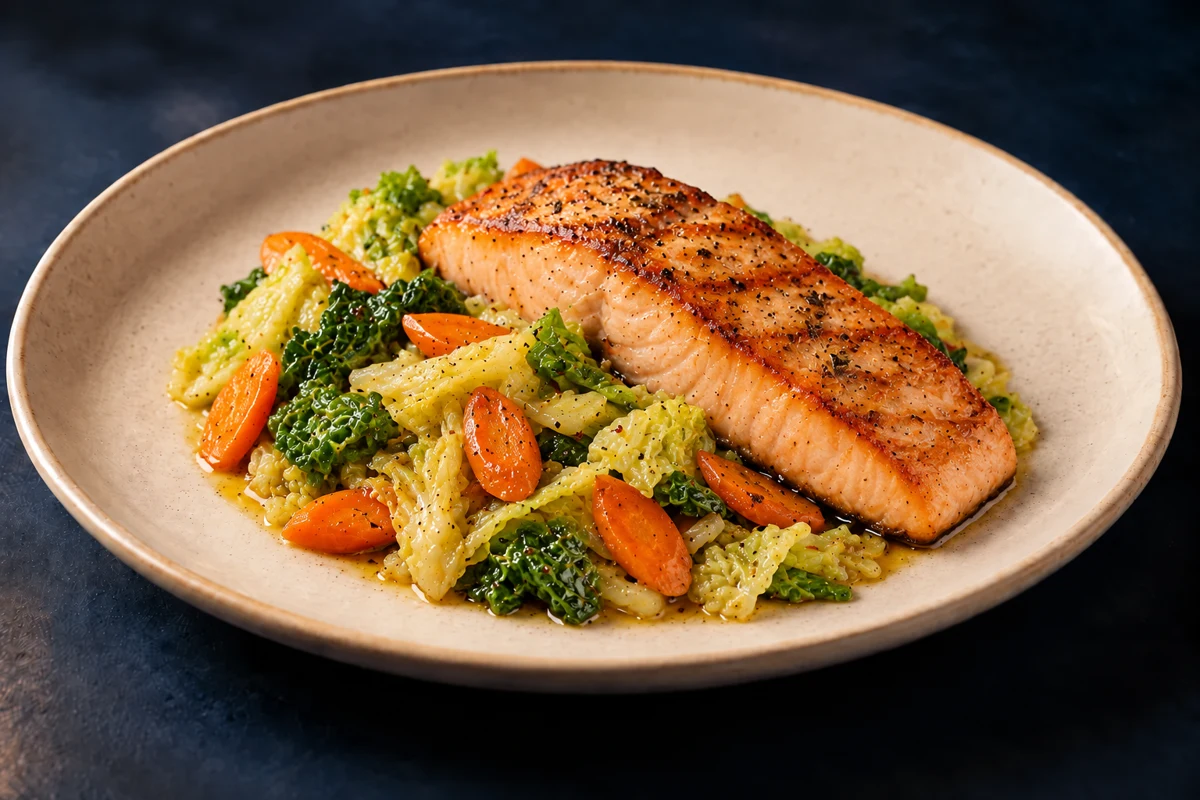
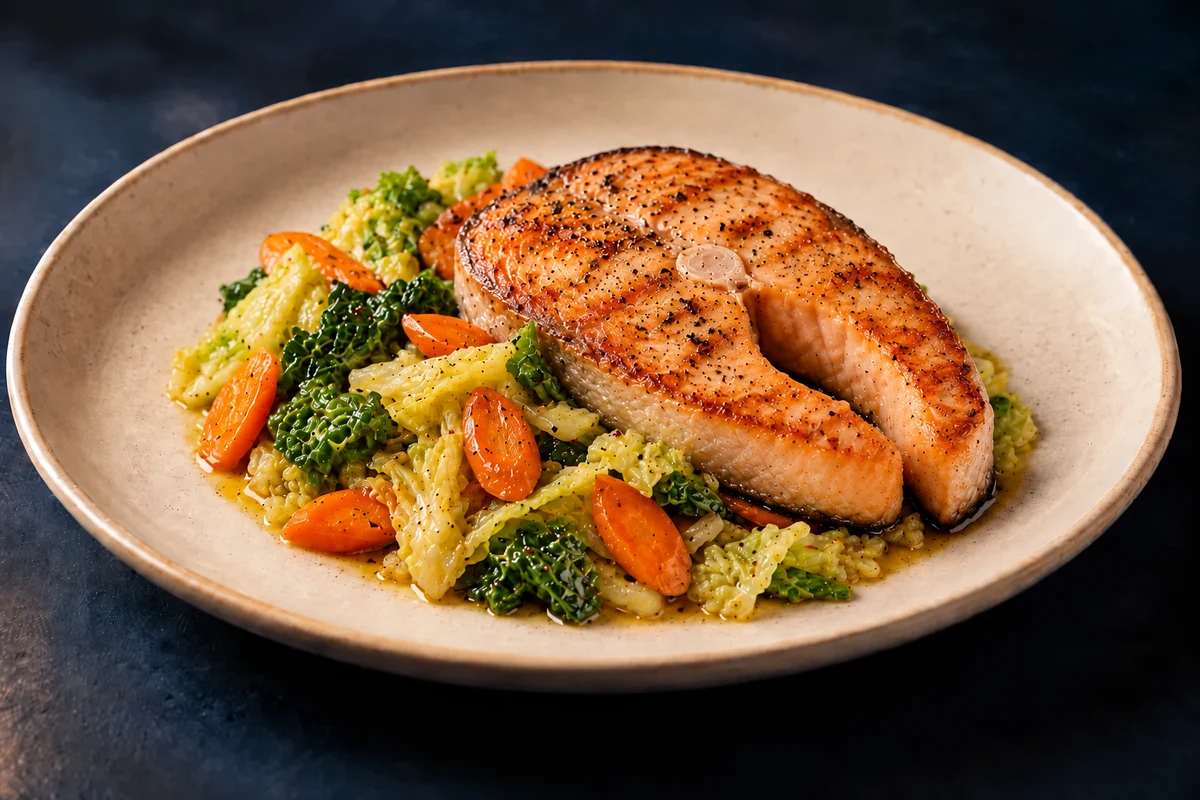
Correggi miniatura salmone pranzo a trancio

Changed region(s): [[0.1542, 0.1562, 0.8633, 0.7812], [0.2158, 0.3125, 0.2467, 0.3438], [0.185, 0.3438, 0.2158, 0.375]]

diff --git a/pranzo.html b/pranzo.html
@@ -1,1 +1,1 @@
-<!doctype html><html lang="it"><head><meta charset="utf-8"><meta name="viewport" content="width=device-width,initial-scale=1"><meta name="theme-color" content="#081c30"><title>Offerta per pranzo — venerdì 23 ottobre 2026 | Controcorrente</title><link rel="stylesheet" href="styles.css?v=20261023093419"><link rel="icon" href="icons/Anchor.svg"><link rel="manifest" href="manifest.webmanifest"><link rel="apple-touch-icon" href="notification-icon-192.png"></head><body><header class="top"><div class="brand-row"><a class="logo" href="index.html"><img class="brand-logo" src="logo-controcorrente.webp?v=202610031345" alt="Controcorrente" width="2172" height="724"></a><button class="nav-toggle" type="button" aria-expanded="false" aria-controls="site-nav"><img class="icon " src="icons/Menu.svg" alt="" aria-hidden="true"><span>Menù</span></button></div><nav id="site-nav"><a href="index.html">Novità</a><a href="il-locale.html">Il Locale</a><a href="pranzo.html" aria-current="page">Menù pranzo</a><a href="cena.html">Menù cena</a><a href="offerta.html">Offerta del giorno</a><a href="bibite-vini.html">Bibite &amp; vini</a><a href="club.html">Club</a><a href="tessera-punti-pranzo.html">Tessera Punti Pranzo</a><a href="allergeni.html">Allergeni</a><a href="contatti.html">Contatti</a><a href="divertentismo.html">Divertentismo <span aria-hidden="true" style="font-size:.75em;color:var(--gold);margin-left:.35em">☺</span></a><span class="languages"><a href="english.html" lang="en">EN</a><a href="cinese.html" lang="zh">中文</a></span></nav></header><main class="shell"><div class="page-head"><h1>Offerta per pranzo</h1><p class="service-label">Valido solo a pranzo,<br>nel giorno sotto indicato</p><p class="lunch-date" style="font-size:.875rem;color:var(--gold);font-weight:600;letter-spacing:.035em"><time datetime="2026-10-23">Venerdì 23 ottobre 2026</time></p></div><section class="lunch-board"><div class="dish-grid"><article class="lunch-dish dish dish-photo-card" data-order-course="Primo"><img class="dish-photo" src="pranzo-assets/spaghetti-mare-coerente-20261023.webp" alt="Spaghetti ai frutti di mare" width="1200" height="800" loading="eager"><div class="dish-copy"><h3>Spaghetti ai frutti di mare</h3><p class="dish-description">Spaghetti con scampi*, vongole, gamberetti* e calamari, con poco pomodoro.</p><p class="allergen-refs" aria-label="Riferimenti allergeni"><span class="allergen-badge" title="Cereali contenenti glutine" aria-label="01 · Cereali contenenti glutine"><span class="allergen-pictogram"><img class="icon" src="icons/Wheat.svg" alt="" aria-hidden="true"></span><span class="allergen-number">01</span></span><span class="allergen-badge" title="Crostacei" aria-label="02 · Crostacei"><span class="allergen-pictogram"><img class="icon" src="icons/Shrimp.svg" alt="" aria-hidden="true"></span><span class="allergen-number">02</span></span><span class="allergen-badge" title="Molluschi" aria-label="14 · Molluschi"><span class="allergen-pictogram"><img class="icon" src="icons/Shell.svg" alt="" aria-hidden="true"></span><span class="allergen-number">14</span></span></p></div><strong class="dish-price">15,00 €</strong></article><article class="lunch-dish dish dish-photo-card" data-order-course="Primo"><img class="dish-photo" src="pranzo-assets/casarecce-branzino-coerente-20261023.webp" alt="Casarecce con branzino e melanzane" width="1200" height="800" loading="eager"><div class="dish-copy"><h3>Casarecce con branzino e melanzane</h3><p class="dish-description">Casarecce con branzino e melanzane, con poco pomodoro.</p><p class="allergen-refs" aria-label="Riferimenti allergeni"><span class="allergen-badge" title="Cereali contenenti glutine" aria-label="01 · Cereali contenenti glutine"><span class="allergen-pictogram"><img class="icon" src="icons/Wheat.svg" alt="" aria-hidden="true"></span><span class="allergen-number">01</span></span><span class="allergen-badge" title="Pesce" aria-label="04 · Pesce"><span class="allergen-pictogram"><img class="icon" src="icons/Fish.svg" alt="" aria-hidden="true"></span><span class="allergen-number">04</span></span></p></div><strong class="dish-price">12,00 €</strong></article><article class="lunch-dish dish dish-photo-card" data-order-course="Primo"><img class="dish-photo" src="pranzo-assets/orecchiette-cavolo-nero-coerente-20261023.webp" alt="Orecchiette con salsiccia e cavolo nero" width="1200" height="800" loading="eager"><div class="dish-copy"><h3>Orecchiette con salsiccia e cavolo nero</h3><p class="dish-description">Orecchiette con salsiccia e cavolo nero.</p><p class="allergen-refs" aria-label="Riferimenti allergeni"><span class="allergen-badge" title="Cereali contenenti glutine" aria-label="01 · Cereali contenenti glutine"><span class="allergen-pictogram"><img class="icon" src="icons/Wheat.svg" alt="" aria-hidden="true"></span><span class="allergen-number">01</span></span></p></div><strong class="dish-price">10,00 €</strong></article><article class="lunch-dish dish dish-photo-card" data-order-course="Primo"><img class="dish-photo" src="pranzo-assets/spaghetti-riso-coerente-20261023.webp" alt="Spaghetti di riso con maiale, verdure e uova" width="1200" height="800" loading="eager"><div class="dish-copy"><h3>Spaghetti di riso con maiale, verdure e uova</h3><p class="dish-description">Spaghetti di riso con maiale, zucchine, carote, uova e verza.</p><p class="allergen-refs" aria-label="Riferimenti allergeni"><span class="allergen-badge" title="Uova" aria-label="03 · Uova"><span class="allergen-pictogram"><img class="icon" src="icons/Egg.svg" alt="" aria-hidden="true"></span><span class="allergen-number">03</span></span></p></div><strong class="dish-price">8,00 €</strong></article><article class="lunch-dish dish dish-photo-card" data-order-course="Secondo"><img class="dish-photo" src="pranzo-assets/orata-verza-coerente-20261023.webp" alt="Orata alla griglia con verza e carote saltate" width="1200" height="800" loading="eager"><div class="dish-copy"><h3>Orata alla griglia con verza e carote saltate</h3><p class="dish-description">Orata alla griglia, accompagnata da verza e carote saltate.</p><p class="allergen-refs" aria-label="Riferimenti allergeni"><span class="allergen-badge" title="Pesce" aria-label="04 · Pesce"><span class="allergen-pictogram"><img class="icon" src="icons/Fish.svg" alt="" aria-hidden="true"></span><span class="allergen-number">04</span></span></p></div><strong class="dish-price">12,00 €</strong></article><article class="lunch-dish dish dish-photo-card" data-order-course="Secondo"><img class="dish-photo" src="pranzo-assets/branzino-verza-coerente-20261023.webp" alt="Branzino alla griglia con verza e carote saltate" width="1200" height="800" loading="eager"><div class="dish-copy"><h3>Branzino alla griglia con verza e carote saltate</h3><p class="dish-description">Branzino alla griglia, accompagnato da verza e carote saltate.</p><p class="allergen-refs" aria-label="Riferimenti allergeni"><span class="allergen-badge" title="Pesce" aria-label="04 · Pesce"><span class="allergen-pictogram"><img class="icon" src="icons/Fish.svg" alt="" aria-hidden="true"></span><span class="allergen-number">04</span></span></p></div><strong class="dish-price">12,00 €</strong></article><article class="lunch-dish dish dish-photo-card" data-order-course="Secondo"><img class="dish-photo" src="pranzo-assets/salmone-verza-coerente-20261023.webp" alt="Salmone alla griglia con verza e carote saltate" width="1200" height="800" loading="eager"><div class="dish-copy"><h3>Salmone alla griglia con verza e carote saltate</h3><p class="dish-description">Salmone alla griglia, accompagnato da verza e carote saltate.</p><p class="allergen-refs" aria-label="Riferimenti allergeni"><span class="allergen-badge" title="Pesce" aria-label="04 · Pesce"><span class="allergen-pictogram"><img class="icon" src="icons/Fish.svg" alt="" aria-hidden="true"></span><span class="allergen-number">04</span></span></p></div><strong class="dish-price">12,00 €</strong></article><article class="lunch-dish dish dish-photo-card" data-order-course="Secondo"><img class="dish-photo" src="cena-assets/insalatona-finocchi-arance-avocado-salmone-20261014.webp" alt="Insalatona con finocchi, arance, avocado e bocconcini di salmone fresco" width="1200" height="800" loading="eager"><div class="dish-copy"><h3>Insalatona con finocchi, arance, avocado e bocconcini di salmone fresco</h3><p class="dish-description">Finocchi, arance e avocado con bocconcini di salmone fresco.</p><p class="allergen-refs" aria-label="Riferimenti allergeni"><span class="allergen-badge" title="Pesce" aria-label="04 · Pesce"><span class="allergen-pictogram"><img class="icon" src="icons/Fish.svg" alt="" aria-hidden="true"></span><span class="allergen-number">04</span></span></p></div><strong class="dish-price">12,00 €</strong></article><article class="lunch-dish dish dish-photo-card" data-order-course="Secondo"><img class="dish-photo" src="pranzo-assets/pollo-zucca-gorgonzola-coerente-20261023.webp" alt="Petti di pollo con zucca e gorgonzola, con contorno di patate" width="1200" height="800" loading="eager"><div class="dish-copy"><h3>Petti di pollo con zucca e gorgonzola, con contorno di patate</h3><p class="dish-description">Petti di pollo con zucca e gorgonzola, accompagnati da patate.</p><p class="allergen-refs" aria-label="Riferimenti allergeni"><span class="allergen-badge" title="Latte" aria-label="07 · Latte"><span class="allergen-pictogram"><img class="icon" src="icons/Milk.svg" alt="" aria-hidden="true"></span><span class="allergen-number">07</span></span></p></div><strong class="dish-price">10,00 €</strong></article></div></section><p class="menu-note">Comunicare eventuali allergie · * Ingredienti congelati all’origine.<br><a href="allergeni.html">Consulta la tabella allergeni</a></p><p class="photo-disclaimer"><strong>Le immagini dei piatti, pur realistiche, sono generate con intelligenza artificiale e hanno scopo illustrativo.</strong></p><div class="offer">Prenotando <strong>tavolo e menù</strong> di pranzo, entro le 12,<br>½ litro d’acqua · caffè · coperto sono inclusi<br><p class="order-small"><strong>Attendere la conferma del Ristorante per considerare valido l’ordine.</strong></p></div><section class="offer" data-lunch-requests style="margin:20px 0 0;padding:14px 20px" aria-label="Contatore pubblico richieste pranzo"><strong style="font-size:1.1rem">Richieste pranzo · persone</strong><p style="margin:8px 0 0">Persone indicate nelle richieste via WhatsApp: <strong style="color:var(--gold);font-size:1.3rem" data-lunch-requests-count aria-live="polite">0</strong></p><p class="order-small" style="margin:6px 0 0">Dato indicativo: richieste avviate, non prenotazioni confermate. Azzeramento ogni giorno alle 15:00.</p></section></main><footer><img class="footer-waves" src="footer-onde.webp?v=202610031345" alt="" aria-hidden="true" width="2172" height="724" loading="lazy"><p>Via San Paolo 16, Torino · <a href="tel:+393272292006">327 229 2006</a></p><p>Comunicare eventuali allergie prima di ordinare.<br>* Ingredienti congelati all’origine.</p></footer><script src="ui.js?v=20261023093419"></script><script src="site-session.js?v=20261023093419"></script><script src="pranzo-counter.js?v=20261023093419"></script><script src="preordine.js?v=20261023093419"></script></body></html>
+<!doctype html><html lang="it"><head><meta charset="utf-8"><meta name="viewport" content="width=device-width,initial-scale=1"><meta name="theme-color" content="#081c30"><title>Offerta per pranzo — venerdì 23 ottobre 2026 | Controcorrente</title><link rel="stylesheet" href="styles.css?v=20261023093419"><link rel="icon" href="icons/Anchor.svg"><link rel="manifest" href="manifest.webmanifest"><link rel="apple-touch-icon" href="notification-icon-192.png"></head><body><header class="top"><div class="brand-row"><a class="logo" href="index.html"><img class="brand-logo" src="logo-controcorrente.webp?v=202610031345" alt="Controcorrente" width="2172" height="724"></a><button class="nav-toggle" type="button" aria-expanded="false" aria-controls="site-nav"><img class="icon " src="icons/Menu.svg" alt="" aria-hidden="true"><span>Menù</span></button></div><nav id="site-nav"><a href="index.html">Novità</a><a href="il-locale.html">Il Locale</a><a href="pranzo.html" aria-current="page">Menù pranzo</a><a href="cena.html">Menù cena</a><a href="offerta.html">Offerta del giorno</a><a href="bibite-vini.html">Bibite &amp; vini</a><a href="club.html">Club</a><a href="tessera-punti-pranzo.html">Tessera Punti Pranzo</a><a href="allergeni.html">Allergeni</a><a href="contatti.html">Contatti</a><a href="divertentismo.html">Divertentismo <span aria-hidden="true" style="font-size:.75em;color:var(--gold);margin-left:.35em">☺</span></a><span class="languages"><a href="english.html" lang="en">EN</a><a href="cinese.html" lang="zh">中文</a></span></nav></header><main class="shell"><div class="page-head"><h1>Offerta per pranzo</h1><p class="service-label">Valido solo a pranzo,<br>nel giorno sotto indicato</p><p class="lunch-date" style="font-size:.875rem;color:var(--gold);font-weight:600;letter-spacing:.035em"><time datetime="2026-10-23">Venerdì 23 ottobre 2026</time></p></div><section class="lunch-board"><div class="dish-grid"><article class="lunch-dish dish dish-photo-card" data-order-course="Primo"><img class="dish-photo" src="pranzo-assets/spaghetti-mare-coerente-20261023.webp" alt="Spaghetti ai frutti di mare" width="1200" height="800" loading="eager"><div class="dish-copy"><h3>Spaghetti ai frutti di mare</h3><p class="dish-description">Spaghetti con scampi*, vongole, gamberetti* e calamari, con poco pomodoro.</p><p class="allergen-refs" aria-label="Riferimenti allergeni"><span class="allergen-badge" title="Cereali contenenti glutine" aria-label="01 · Cereali contenenti glutine"><span class="allergen-pictogram"><img class="icon" src="icons/Wheat.svg" alt="" aria-hidden="true"></span><span class="allergen-number">01</span></span><span class="allergen-badge" title="Crostacei" aria-label="02 · Crostacei"><span class="allergen-pictogram"><img class="icon" src="icons/Shrimp.svg" alt="" aria-hidden="true"></span><span class="allergen-number">02</span></span><span class="allergen-badge" title="Molluschi" aria-label="14 · Molluschi"><span class="allergen-pictogram"><img class="icon" src="icons/Shell.svg" alt="" aria-hidden="true"></span><span class="allergen-number">14</span></span></p></div><strong class="dish-price">15,00 €</strong></article><article class="lunch-dish dish dish-photo-card" data-order-course="Primo"><img class="dish-photo" src="pranzo-assets/casarecce-branzino-coerente-20261023.webp" alt="Casarecce con branzino e melanzane" width="1200" height="800" loading="eager"><div class="dish-copy"><h3>Casarecce con branzino e melanzane</h3><p class="dish-description">Casarecce con branzino e melanzane, con poco pomodoro.</p><p class="allergen-refs" aria-label="Riferimenti allergeni"><span class="allergen-badge" title="Cereali contenenti glutine" aria-label="01 · Cereali contenenti glutine"><span class="allergen-pictogram"><img class="icon" src="icons/Wheat.svg" alt="" aria-hidden="true"></span><span class="allergen-number">01</span></span><span class="allergen-badge" title="Pesce" aria-label="04 · Pesce"><span class="allergen-pictogram"><img class="icon" src="icons/Fish.svg" alt="" aria-hidden="true"></span><span class="allergen-number">04</span></span></p></div><strong class="dish-price">12,00 €</strong></article><article class="lunch-dish dish dish-photo-card" data-order-course="Primo"><img class="dish-photo" src="pranzo-assets/orecchiette-cavolo-nero-coerente-20261023.webp" alt="Orecchiette con salsiccia e cavolo nero" width="1200" height="800" loading="eager"><div class="dish-copy"><h3>Orecchiette con salsiccia e cavolo nero</h3><p class="dish-description">Orecchiette con salsiccia e cavolo nero.</p><p class="allergen-refs" aria-label="Riferimenti allergeni"><span class="allergen-badge" title="Cereali contenenti glutine" aria-label="01 · Cereali contenenti glutine"><span class="allergen-pictogram"><img class="icon" src="icons/Wheat.svg" alt="" aria-hidden="true"></span><span class="allergen-number">01</span></span></p></div><strong class="dish-price">10,00 €</strong></article><article class="lunch-dish dish dish-photo-card" data-order-course="Primo"><img class="dish-photo" src="pranzo-assets/spaghetti-riso-coerente-20261023.webp" alt="Spaghetti di riso con maiale, verdure e uova" width="1200" height="800" loading="eager"><div class="dish-copy"><h3>Spaghetti di riso con maiale, verdure e uova</h3><p class="dish-description">Spaghetti di riso con maiale, zucchine, carote, uova e verza.</p><p class="allergen-refs" aria-label="Riferimenti allergeni"><span class="allergen-badge" title="Uova" aria-label="03 · Uova"><span class="allergen-pictogram"><img class="icon" src="icons/Egg.svg" alt="" aria-hidden="true"></span><span class="allergen-number">03</span></span></p></div><strong class="dish-price">8,00 €</strong></article><article class="lunch-dish dish dish-photo-card" data-order-course="Secondo"><img class="dish-photo" src="pranzo-assets/orata-verza-coerente-20261023.webp" alt="Orata alla griglia con verza e carote saltate" width="1200" height="800" loading="eager"><div class="dish-copy"><h3>Orata alla griglia con verza e carote saltate</h3><p class="dish-description">Orata alla griglia, accompagnata da verza e carote saltate.</p><p class="allergen-refs" aria-label="Riferimenti allergeni"><span class="allergen-badge" title="Pesce" aria-label="04 · Pesce"><span class="allergen-pictogram"><img class="icon" src="icons/Fish.svg" alt="" aria-hidden="true"></span><span class="allergen-number">04</span></span></p></div><strong class="dish-price">12,00 €</strong></article><article class="lunch-dish dish dish-photo-card" data-order-course="Secondo"><img class="dish-photo" src="pranzo-assets/branzino-verza-coerente-20261023.webp" alt="Branzino alla griglia con verza e carote saltate" width="1200" height="800" loading="eager"><div class="dish-copy"><h3>Branzino alla griglia con verza e carote saltate</h3><p class="dish-description">Branzino alla griglia, accompagnato da verza e carote saltate.</p><p class="allergen-refs" aria-label="Riferimenti allergeni"><span class="allergen-badge" title="Pesce" aria-label="04 · Pesce"><span class="allergen-pictogram"><img class="icon" src="icons/Fish.svg" alt="" aria-hidden="true"></span><span class="allergen-number">04</span></span></p></div><strong class="dish-price">12,00 €</strong></article><article class="lunch-dish dish dish-photo-card" data-order-course="Secondo"><img class="dish-photo" src="pranzo-assets/salmone-verza-coerente-20261023.webp?v=trancio-20261023" alt="Salmone alla griglia con verza e carote saltate" width="1200" height="800" loading="eager"><div class="dish-copy"><h3>Salmone alla griglia con verza e carote saltate</h3><p class="dish-description">Salmone alla griglia, accompagnato da verza e carote saltate.</p><p class="allergen-refs" aria-label="Riferimenti allergeni"><span class="allergen-badge" title="Pesce" aria-label="04 · Pesce"><span class="allergen-pictogram"><img class="icon" src="icons/Fish.svg" alt="" aria-hidden="true"></span><span class="allergen-number">04</span></span></p></div><strong class="dish-price">12,00 €</strong></article><article class="lunch-dish dish dish-photo-card" data-order-course="Secondo"><img class="dish-photo" src="cena-assets/insalatona-finocchi-arance-avocado-salmone-20261014.webp" alt="Insalatona con finocchi, arance, avocado e bocconcini di salmone fresco" width="1200" height="800" loading="eager"><div class="dish-copy"><h3>Insalatona con finocchi, arance, avocado e bocconcini di salmone fresco</h3><p class="dish-description">Finocchi, arance e avocado con bocconcini di salmone fresco.</p><p class="allergen-refs" aria-label="Riferimenti allergeni"><span class="allergen-badge" title="Pesce" aria-label="04 · Pesce"><span class="allergen-pictogram"><img class="icon" src="icons/Fish.svg" alt="" aria-hidden="true"></span><span class="allergen-number">04</span></span></p></div><strong class="dish-price">12,00 €</strong></article><article class="lunch-dish dish dish-photo-card" data-order-course="Secondo"><img class="dish-photo" src="pranzo-assets/pollo-zucca-gorgonzola-coerente-20261023.webp" alt="Petti di pollo con zucca e gorgonzola, con contorno di patate" width="1200" height="800" loading="eager"><div class="dish-copy"><h3>Petti di pollo con zucca e gorgonzola, con contorno di patate</h3><p class="dish-description">Petti di pollo con zucca e gorgonzola, accompagnati da patate.</p><p class="allergen-refs" aria-label="Riferimenti allergeni"><span class="allergen-badge" title="Latte" aria-label="07 · Latte"><span class="allergen-pictogram"><img class="icon" src="icons/Milk.svg" alt="" aria-hidden="true"></span><span class="allergen-number">07</span></span></p></div><strong class="dish-price">10,00 €</strong></article></div></section><p class="menu-note">Comunicare eventuali allergie · * Ingredienti congelati all’origine.<br><a href="allergeni.html">Consulta la tabella allergeni</a></p><p class="photo-disclaimer"><strong>Le immagini dei piatti, pur realistiche, sono generate con intelligenza artificiale e hanno scopo illustrativo.</strong></p><div class="offer">Prenotando <strong>tavolo e menù</strong> di pranzo, entro le 12,<br>½ litro d’acqua · caffè · coperto sono inclusi<br><p class="order-small"><strong>Attendere la conferma del Ristorante per considerare valido l’ordine.</strong></p></div><section class="offer" data-lunch-requests style="margin:20px 0 0;padding:14px 20px" aria-label="Contatore pubblico richieste pranzo"><strong style="font-size:1.1rem">Richieste pranzo · persone</strong><p style="margin:8px 0 0">Persone indicate nelle richieste via WhatsApp: <strong style="color:var(--gold);font-size:1.3rem" data-lunch-requests-count aria-live="polite">0</strong></p><p class="order-small" style="margin:6px 0 0">Dato indicativo: richieste avviate, non prenotazioni confermate. Azzeramento ogni giorno alle 15:00.</p></section></main><footer><img class="footer-waves" src="footer-onde.webp?v=202610031345" alt="" aria-hidden="true" width="2172" height="724" loading="lazy"><p>Via San Paolo 16, Torino · <a href="tel:+393272292006">327 229 2006</a></p><p>Comunicare eventuali allergie prima di ordinare.<br>* Ingredienti congelati all’origine.</p></footer><script src="ui.js?v=20261023093419"></script><script src="site-session.js?v=20261023093419"></script><script src="pranzo-counter.js?v=20261023093419"></script><script src="preordine.js?v=20261023093419"></script></body></html>
